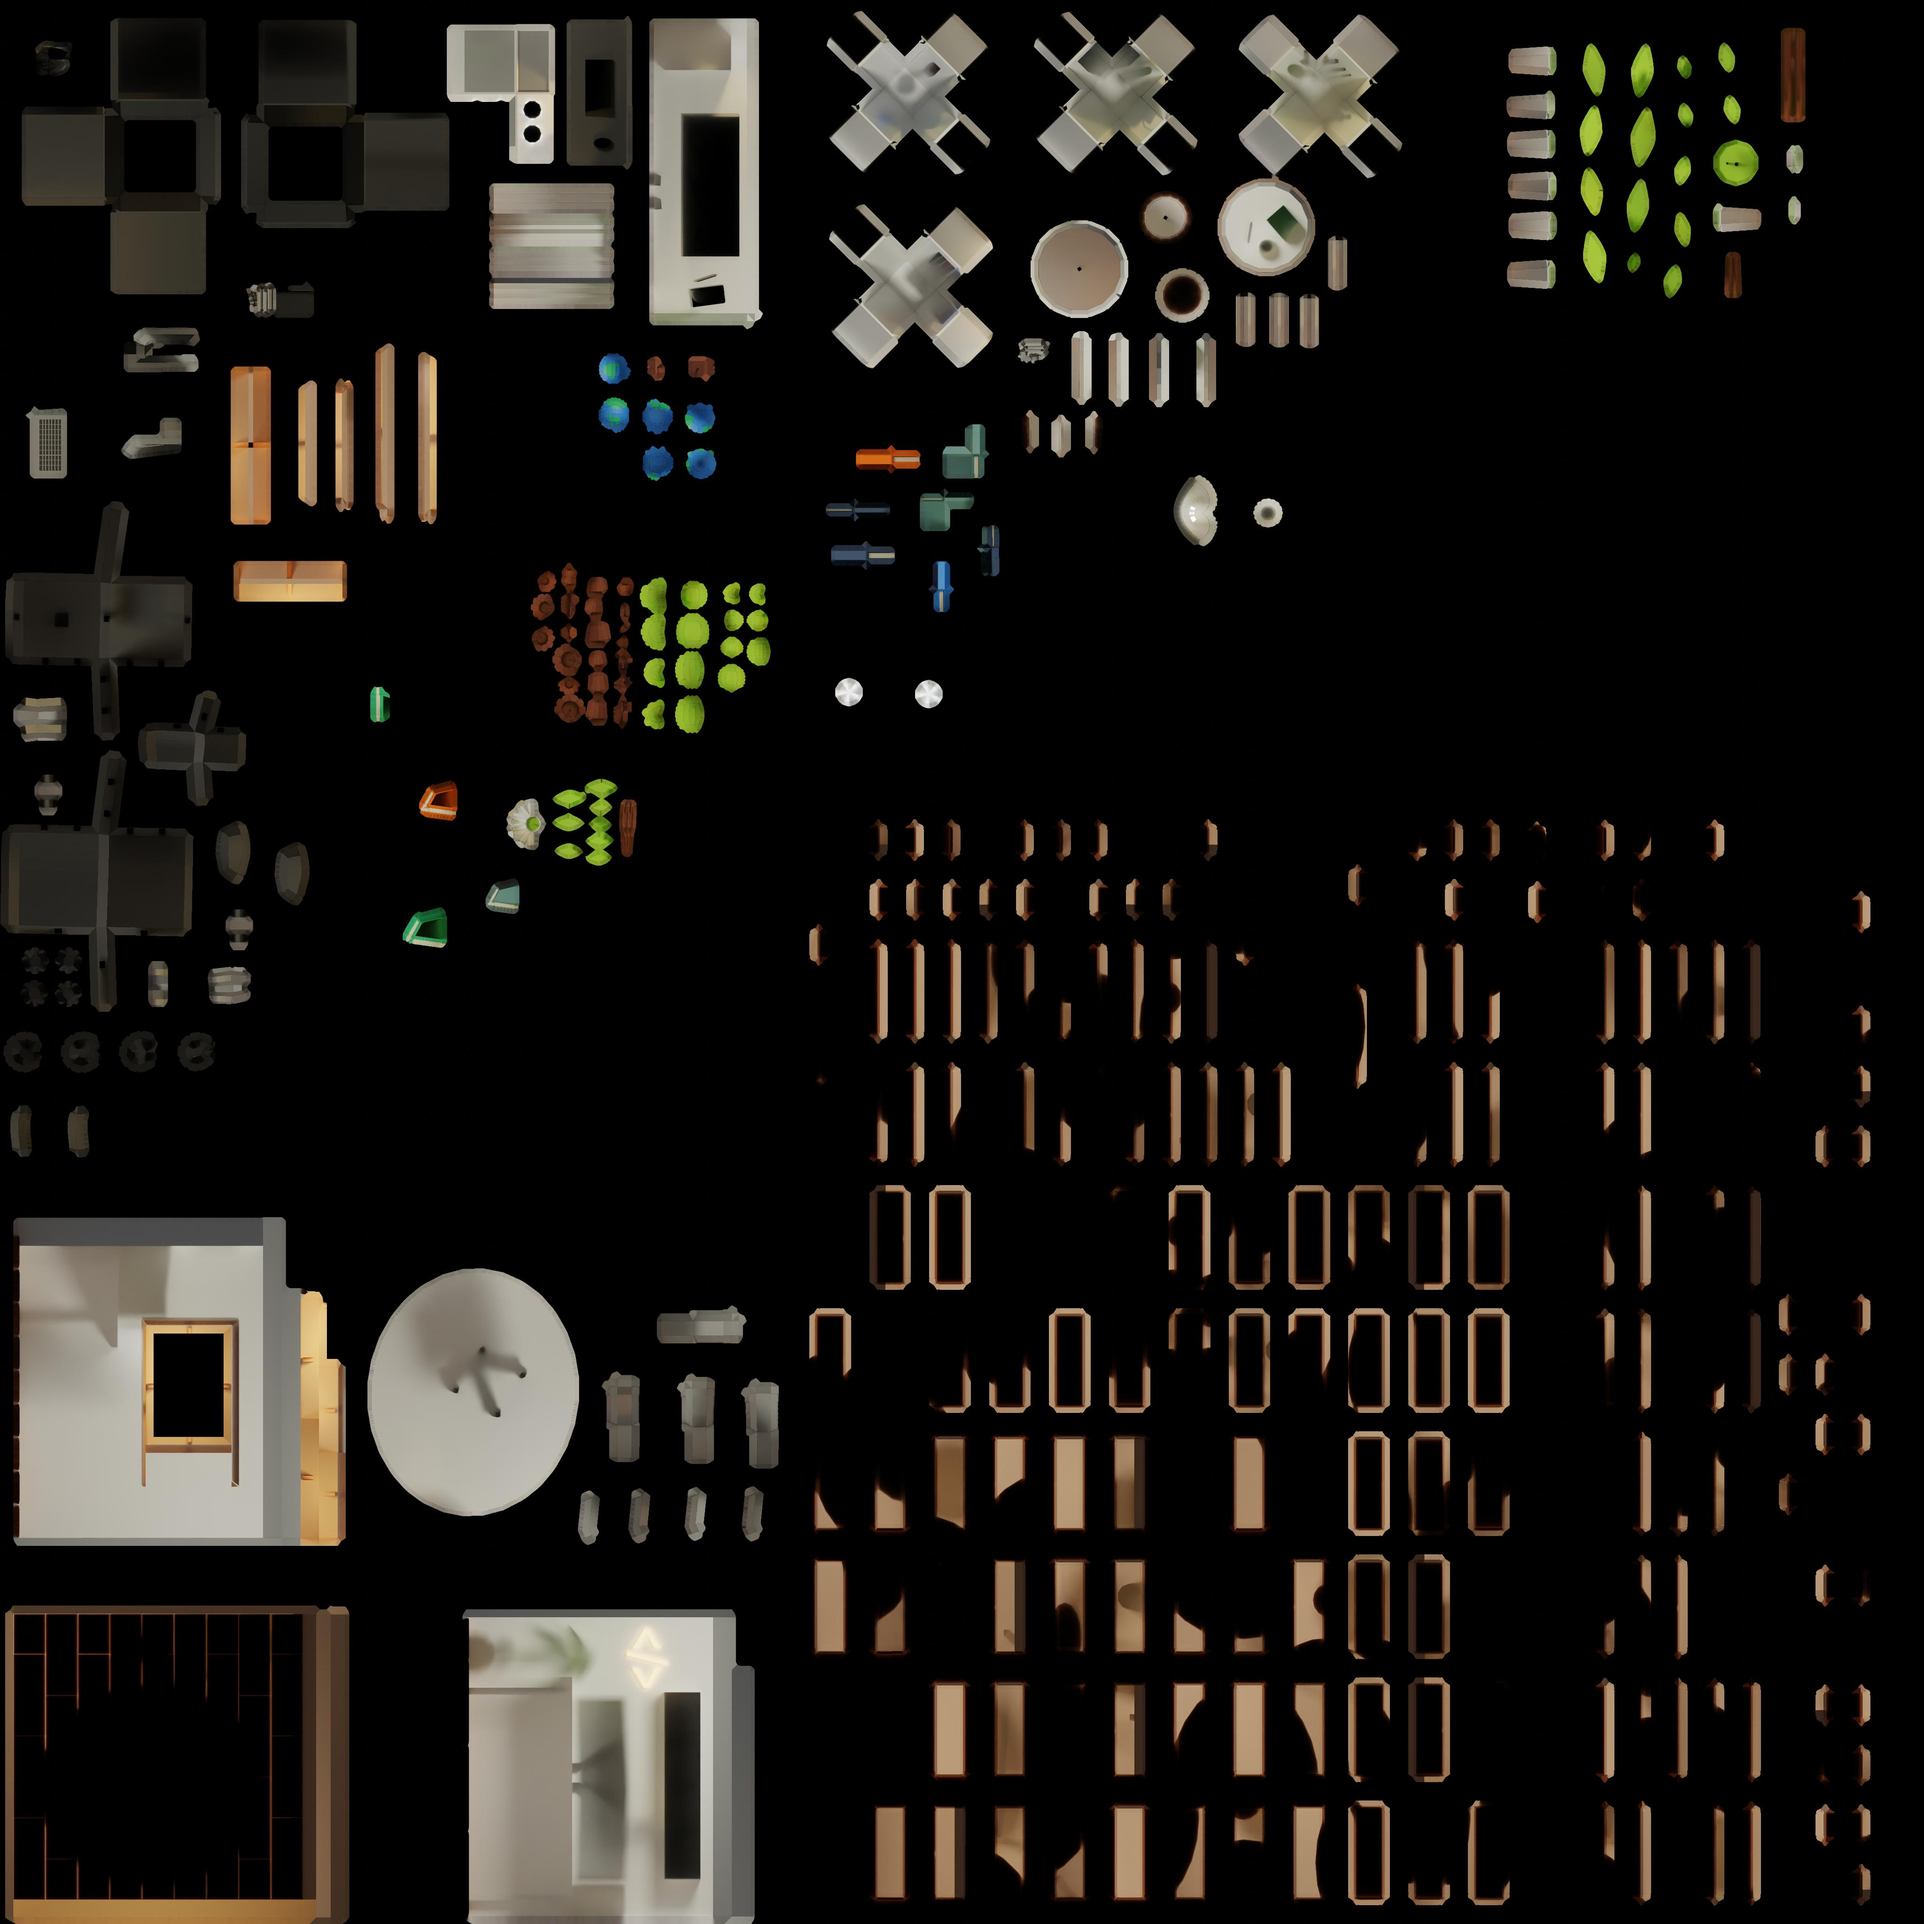
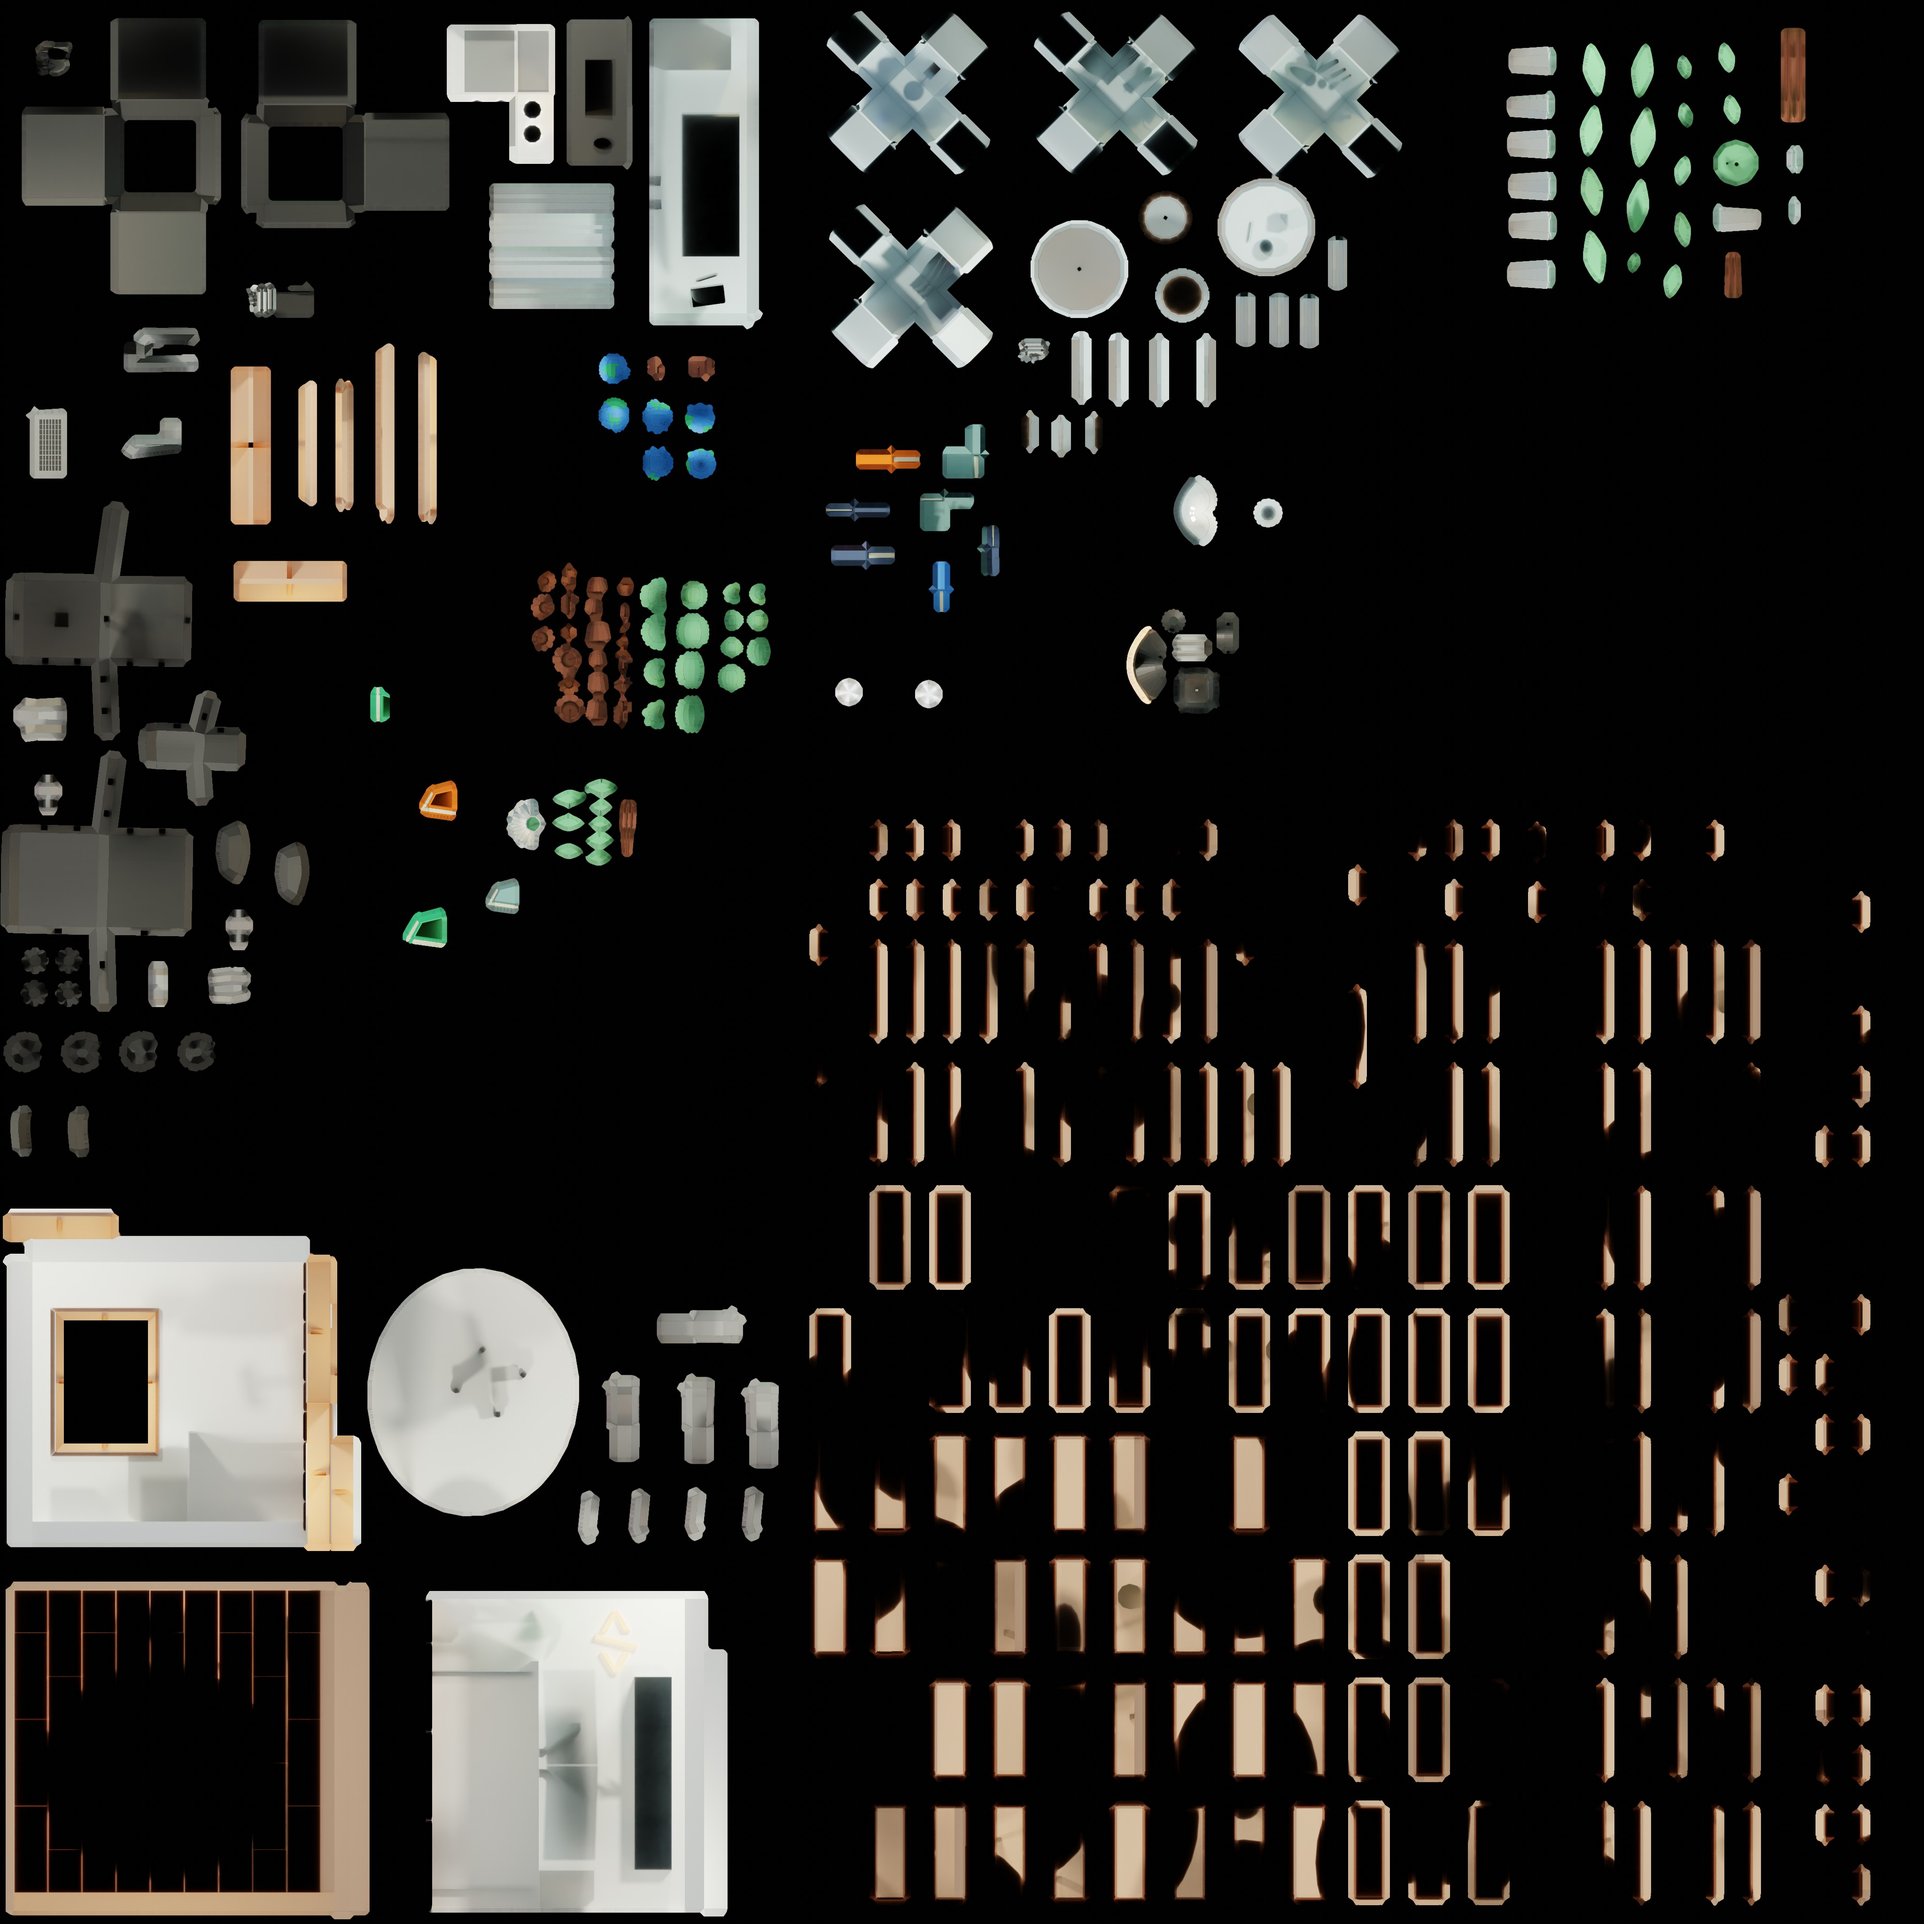
theme change in 3d

diff --git a/components/home/Experience.vue b/components/home/Experience.vue
@@ -20,6 +20,20 @@ export default {
             currentIntersect: null, 
             time: Date.now(),
             animationFrameId: null,
+            bakedDarkMaterial: null,
+            bakedMaterial: null,
+            fanLightMaterial: null,
+            symbolLightMaterial: null
+        }
+    },
+    watch: {
+        '$vuetify.theme.dark': {
+            handler: function (val, oldVal) {
+                if (val !== oldVal) {
+                    this.changeTheme()
+                }
+            },
+            deep: true
         }
     },
     mounted() {
@@ -34,6 +48,28 @@ export default {
         cancelAnimationFrame(this.animationFrameId)
     },
     methods: {
+        changeTheme() {
+            const mesh = this.scene.children[4]
+
+            if (this.$vuetify.theme.dark)
+            {
+                this.box.material.color.set(0x616161)
+                mesh.traverse((child) =>
+                {
+                    child.material = this.bakedDarkMaterial
+                })
+                this.updateLights(mesh)
+            }
+            else
+            {
+                this.box.material.color.set(0xffffff)
+                mesh.traverse((child) =>
+                {
+                    child.material = this.bakedMaterial
+                })
+                this.updateLights(mesh)
+            }
+        },
         mouseClick() {
             if(this.currentIntersect)
             {
@@ -51,10 +87,11 @@ export default {
         },
         createWorld() {
             this.box = new Mesh(
-                new BoxGeometry(0.2, 0.2, 0.2),
+                new BoxGeometry(0.18, 0.18, 0.18),
                 new MeshStandardMaterial({ color: 0x616161 })
             )
             this.box.position.set(0, -0.1, 1.7)
+            this.box.rotation.x = Math.PI/4
             this.scene.add(this.box)
             this.raycaster = new Raycaster()
 
@@ -79,17 +116,22 @@ export default {
             bakedTexture.flipY = false
             bakedTexture.colorSpace = SRGBColorSpace
 
+            const bakedDarkTexture = textureLoader.load('baked_dark.jpg')
+            bakedDarkTexture.flipY = false
+            bakedDarkTexture.colorSpace = SRGBColorSpace
+
             /**
              * Materials
              */
             // Baked Material
-            const bakedMaterial = new MeshBasicMaterial({ map: bakedTexture })
+            this.bakedMaterial = new MeshBasicMaterial({ map: bakedTexture })
+            this.bakedDarkMaterial = new MeshBasicMaterial({ map: bakedDarkTexture })
 
             // Fan light Material
-            const fanLightMaterial = new MeshBasicMaterial({ color: 0xffffff })
+            this.fanLightMaterial = new MeshBasicMaterial({ color: 0xffffff })
 
             // Symbol light Material
-            const symbolLightMaterial = new MeshBasicMaterial({ color: 0xffffe5 })
+            this.symbolLightMaterial = new MeshBasicMaterial({ color: 0xffffe5 })
 
             /**
              * Model 
@@ -100,26 +142,28 @@ export default {
                 {
                     gltf.scene.traverse((child) =>
                     {
-                        child.material = bakedMaterial
+                        child.material = this.bakedDarkMaterial
                     })
 
-                    const alexaLightMesh = gltf.scene.children.find(child => child.name === 'alexaLight')
-                    const fanLightAMesh = gltf.scene.children.find(child => child.name === 'fanLightA')
-                    const fanLightBMesh = gltf.scene.children.find(child => child.name === 'fanLightB')
-                    const symbolLightBMesh = gltf.scene.children.find(child => child.name === 'symbolLight')
-
-                    alexaLightMesh.material = fanLightMaterial
-                    fanLightAMesh.material = fanLightMaterial
-                    fanLightBMesh.material = fanLightMaterial
-                    symbolLightBMesh.material = symbolLightMaterial
-
+                    this.updateLights(gltf.scene)
 
                     gltf.scene.position.y = -1
                     gltf.scene.position.x = 0.55
-                    // gltf.scene.rotation.set(Math.PI/25, -Math.PI/3.5, 0)
                     this.scene.add(gltf.scene)
                 }
             )
+            console.log(this.scene)
+        },
+        updateLights(mesh){
+            const alexaLightMesh = mesh.children.find(child => child.name === 'alexaLight')
+            const fanLightAMesh = mesh.children.find(child => child.name === 'fanLightA')
+            const fanLightBMesh = mesh.children.find(child => child.name === 'fanLightB')
+            const symbolLightBMesh = mesh.children.find(child => child.name === 'symbolLight')
+
+            alexaLightMesh.material = this.fanLightMaterial
+            fanLightAMesh.material = this.fanLightMaterial
+            fanLightBMesh.material = this.fanLightMaterial
+            symbolLightBMesh.material = this.symbolLightMaterial
         },
         tick() {
             // Time
@@ -132,7 +176,7 @@ export default {
 
             // Update objects
             this.box.rotation.y += 0.0004 * deltaTime
-            this.box.rotation.x += 0.0001 * deltaTime
+            this.box.rotation.x += 0.0004 * deltaTime
             // this.box.position.y = Math.sin(this.time * 0.001) * 0.1
             this.box.updateMatrixWorld()
 

diff --git a/nuxt.config.js b/nuxt.config.js
@@ -62,26 +62,26 @@ export default {
       dark: true,
       themes: {
         light: {
-          primary: '#FEFFFE',
-          secondary: '#D4C2AD',
-          accent: '#8BA37C',
+          primary: '#D2D9D7',
+          secondary: '#90A0A6',
+          accent: '#74CE8C',
           info: colors.teal.lighten1,
           warning: colors.amber.base,
           error: colors.deepOrange.accent4,
           success: colors.green.accent3,
-          'primary-text': '#7B5143',
-          'secondary-text': '#614C4C',
+          'primary-text': '#0D0D0D',
+          'secondary-text': '#262626',
         },
         dark: {
-          primary: '#282a36',
-          secondary: '#44475a',
-          accent: '#50fa7b',
+          primary: '#262626',
+          secondary: '#5C7362',
+          accent: '#74CE8C',
           info: colors.teal.lighten1,
           warning: colors.amber.base,
           error: colors.deepOrange.accent4,
           success: colors.green.accent3,
-          'primary-text': '#f8f8f2',
-          'secondary-text': '#A1A3B2',
+          'primary-text': '#D2D9D7',
+          'secondary-text': '#90A0A6',
         }
       }
     },
